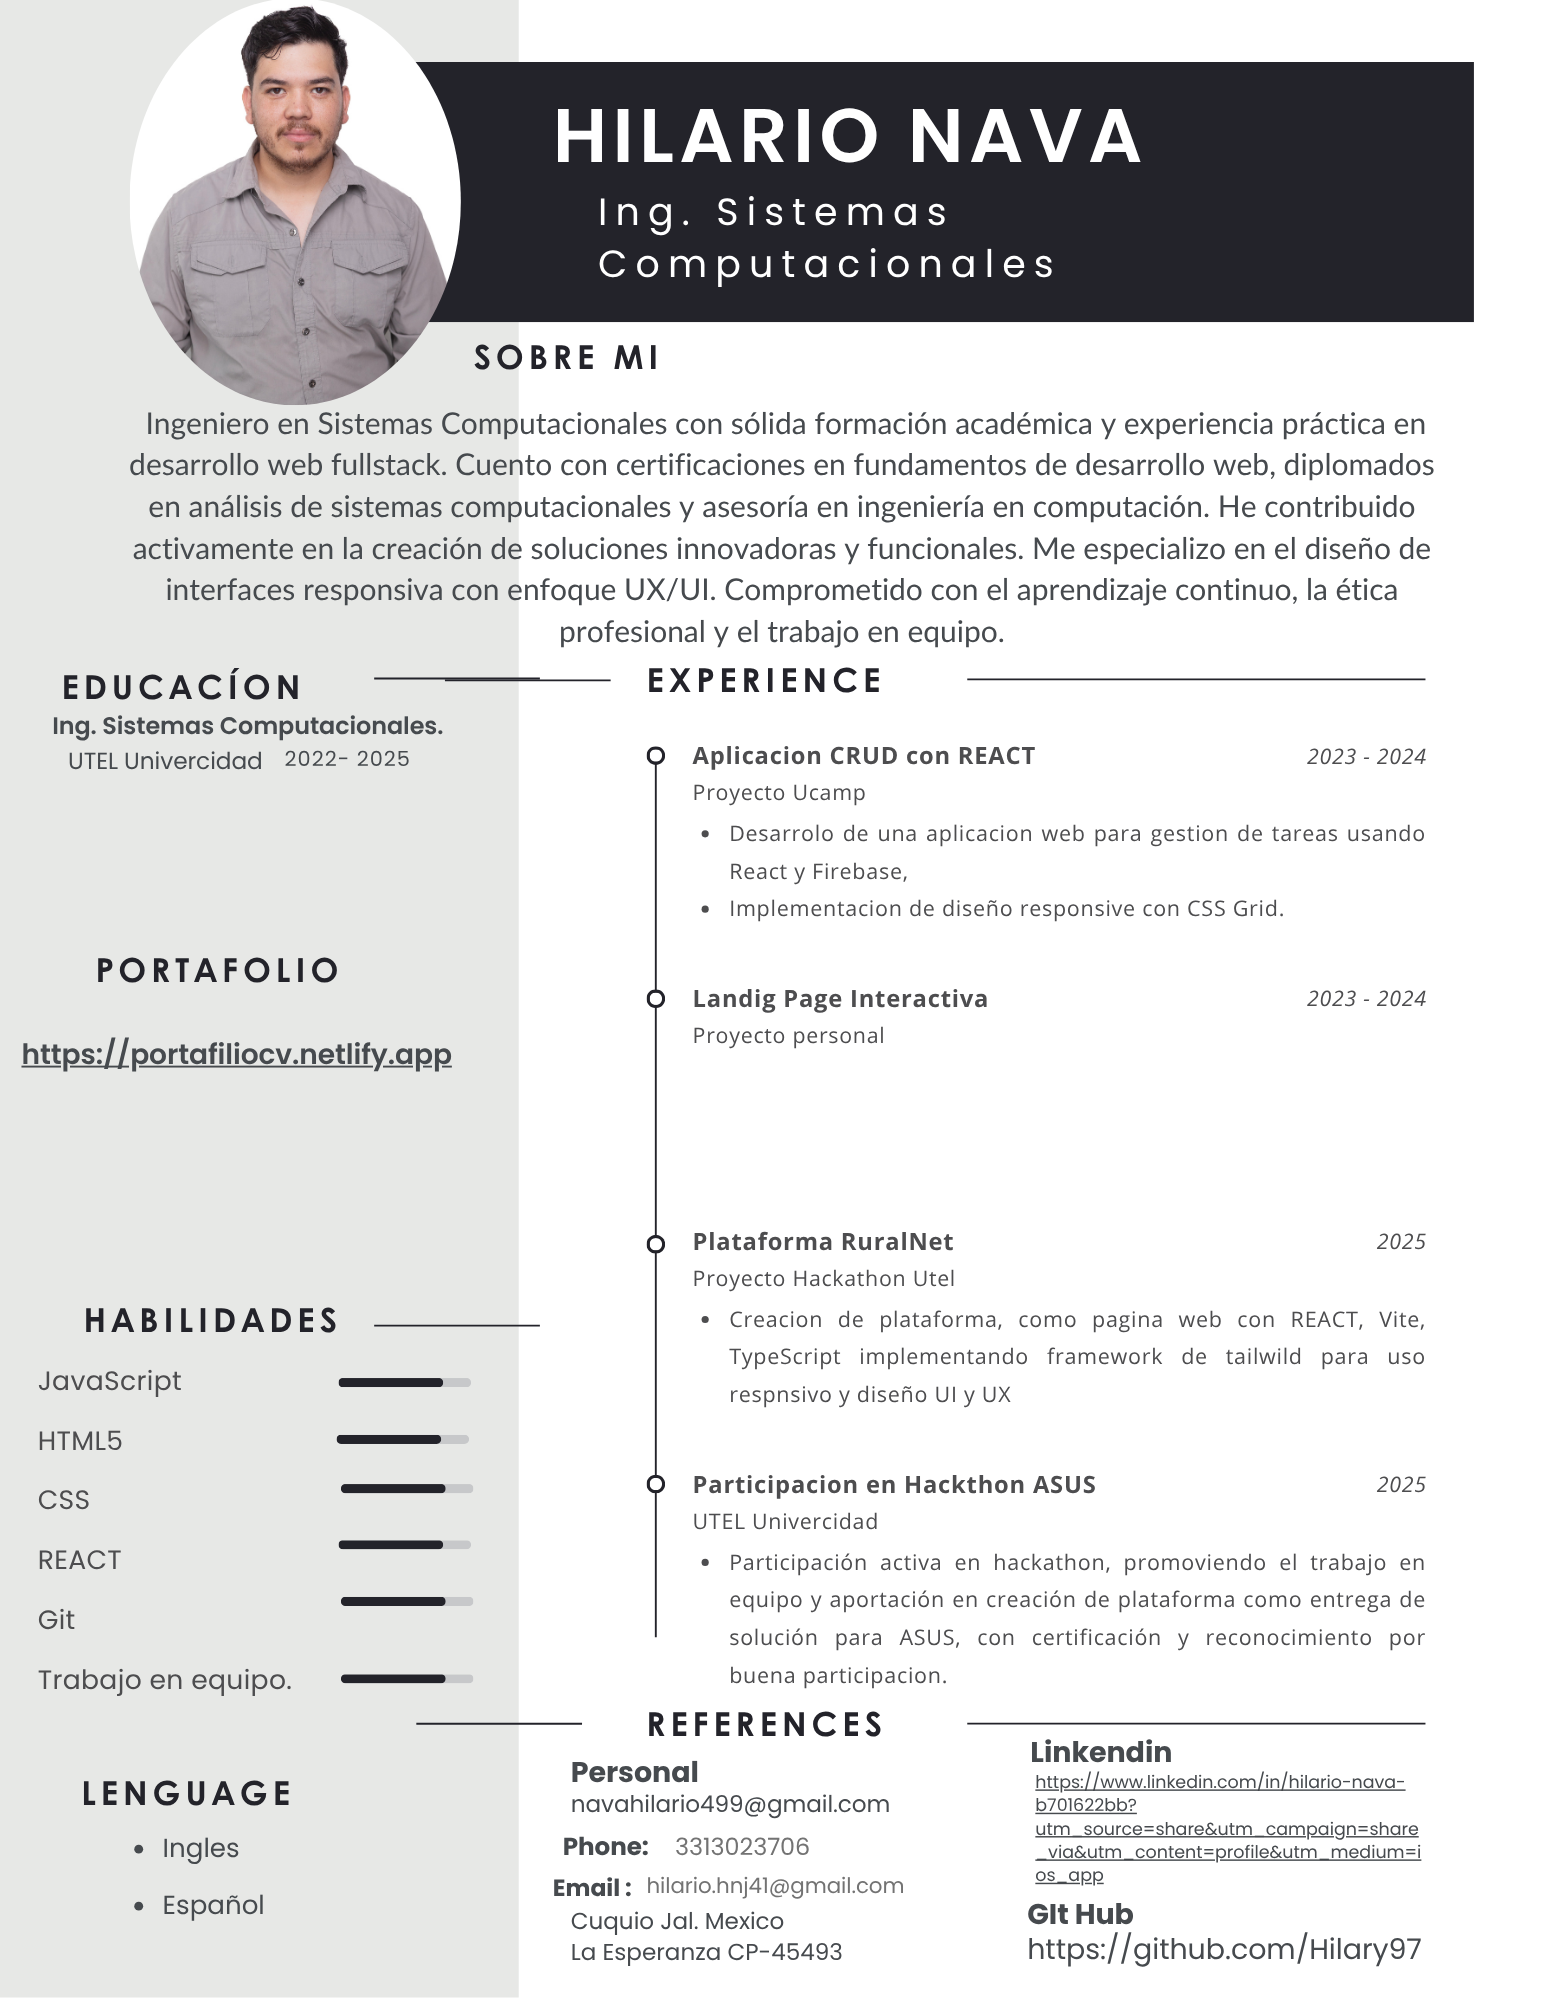
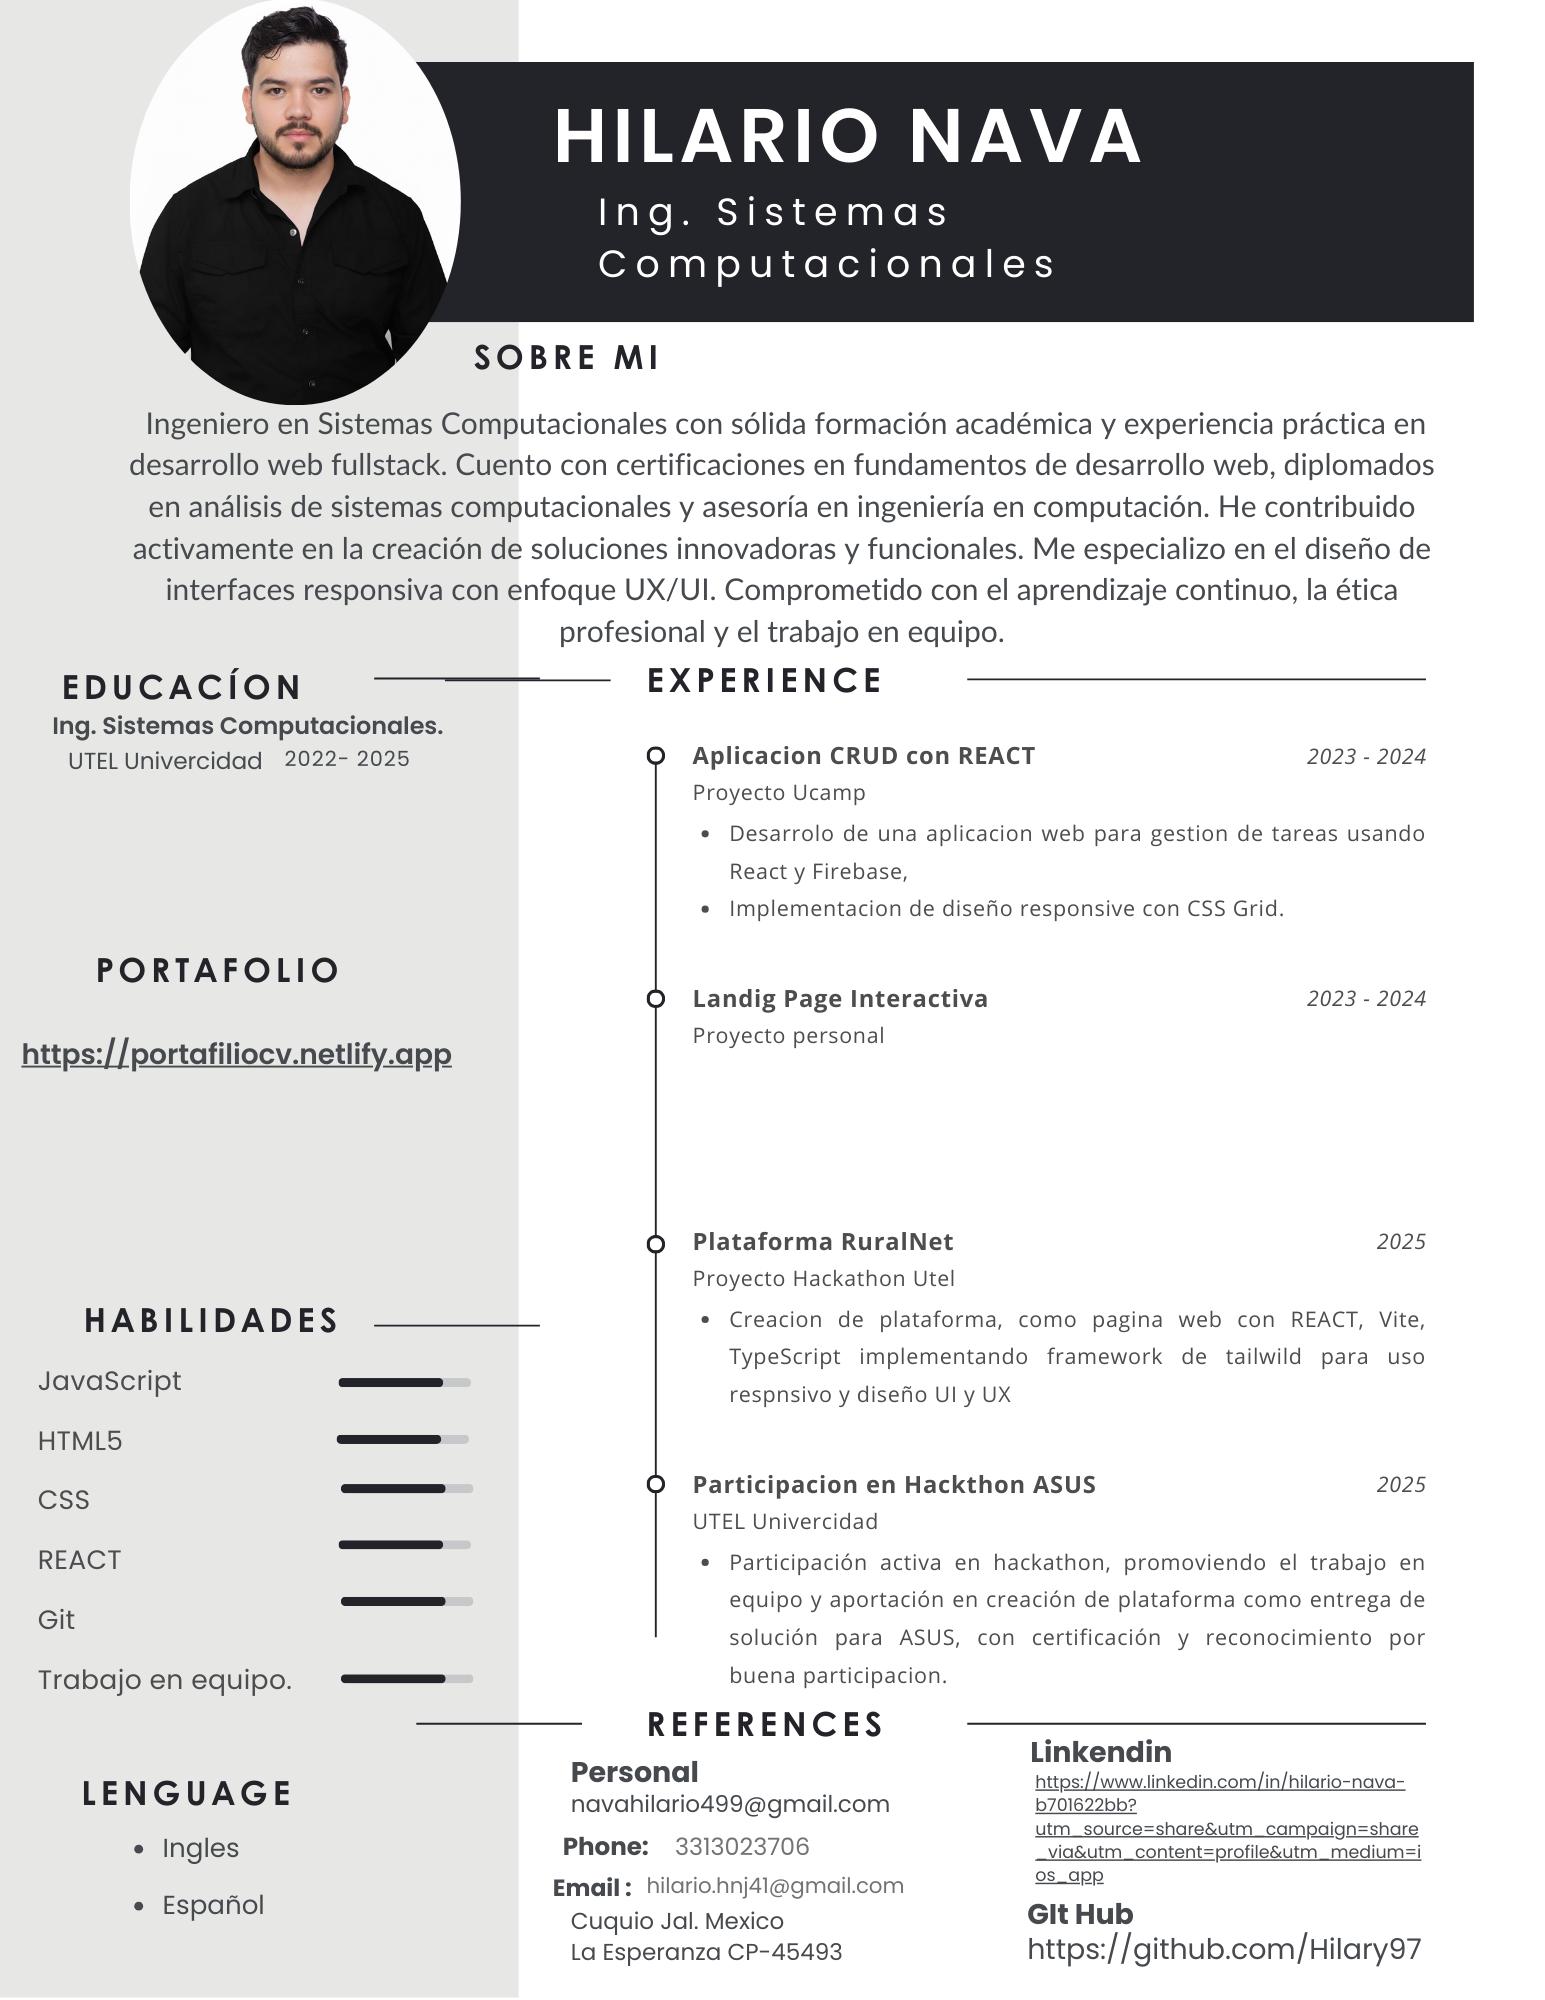
Cambios de diseño de CV

Changed region(s): [[0.0932, 0.062, 0.3107, 0.217]]

diff --git a/src/App.jsx b/src/App.jsx
@@ -1,7 +1,7 @@
 import { useState } from 'react'
 
 import imagenCV from "/Cv_Hilario_Portafolio.png"
-import miPhoto from '/IMG_4747.JPG'
+
 import './App.css'
 
 function App() {
